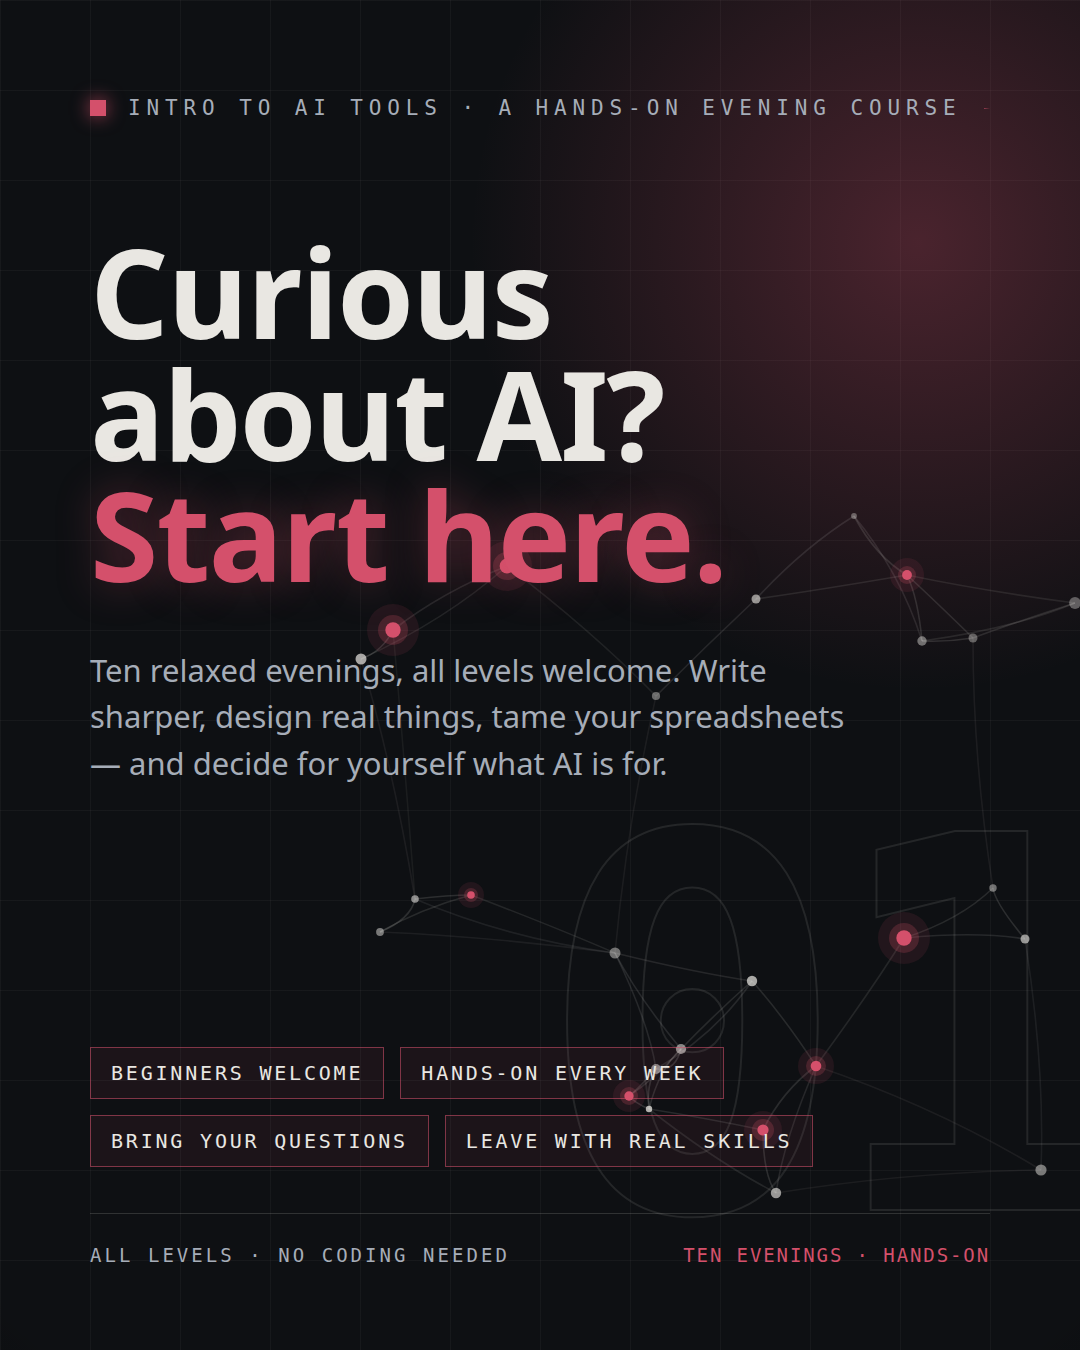
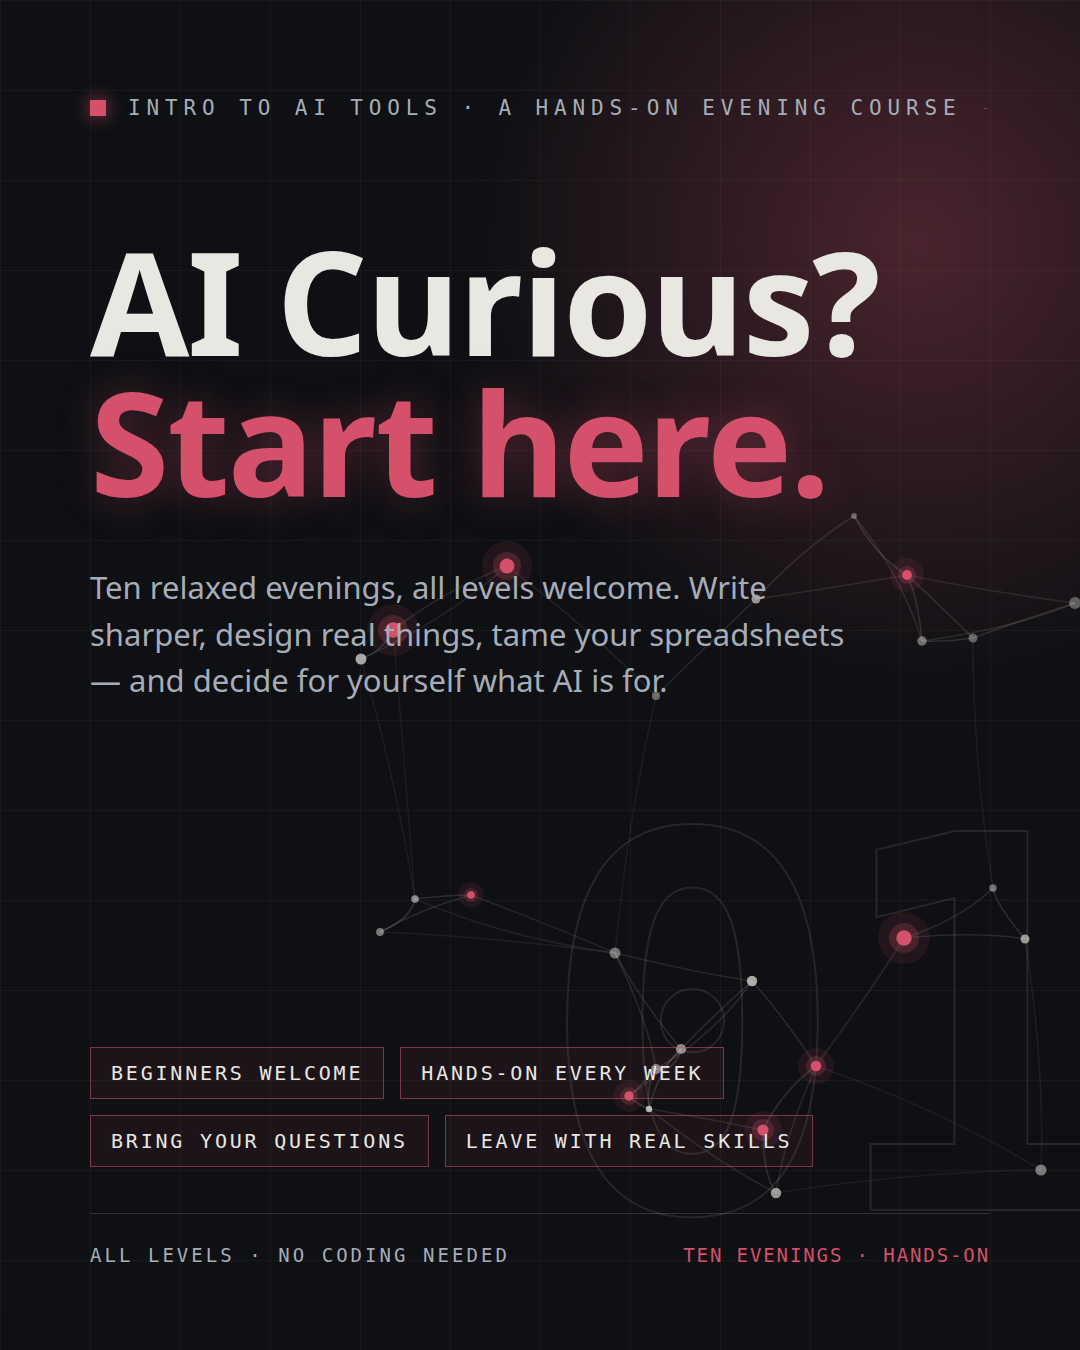
Tighten the hook: "AI Curious? Start here."
Shorter headline sits larger on both the flyer and title banner; README
table updated to match.

Changed region(s): [[0.0917, 0.1867, 0.825, 0.5911]]

diff --git a/intro-ai-tools/flyers/01-curious-start-here.html b/intro-ai-tools/flyers/01-curious-start-here.html
@@ -28,7 +28,7 @@
     font-size:21px; letter-spacing:.28em; color:#a6adb8; text-transform:uppercase; }
   .dot { width:16px; height:16px; background:#d4506b; box-shadow:0 0 18px rgba(212,80,107,.8); }
   .toprule { flex:1; height:1px; background:linear-gradient(90deg, rgba(212,80,107,.6), transparent); }
-  .headline { margin-top:110px; font-weight:900; font-size:124px; line-height:.98;
+  .headline { margin-top:110px; font-weight:900; font-size:144px; line-height:.98;
     letter-spacing:-0.015em; text-wrap:balance; }
   .headline .accent { color:#d4506b; text-shadow:0 0 42px rgba(212,80,107,.35); }
   .sub { margin-top:52px; font-size:31px; line-height:1.5; color:#a6adb8; max-width:760px; }
@@ -49,7 +49,7 @@
   <div class="net"><svg xmlns="http://www.w3.org/2000/svg" viewBox="0 0 780 780" width="780" height="780"><path d="M422,521 Q385,554 351,589" stroke="rgba(233,231,226,0.123)" stroke-width="1.6" fill="none"/><path d="M422,521 Q454,557 486,606" stroke="rgba(233,231,226,0.12)" stroke-width="1.6" fill="none"/><path d="M422,521 Q386,574 326,609" stroke="rgba(233,231,226,0.112)" stroke-width="1.6" fill="none"/><path d="M299,636 Q305,643 319,649" stroke="rgba(233,231,226,0.151)" stroke-width="1.6" fill="none"/><path d="M299,636 Q308,629 326,609" stroke="rgba(233,231,226,0.146)" stroke-width="1.6" fill="none"/><path d="M299,636 Q326,618 351,589" stroke="rgba(233,231,226,0.134)" stroke-width="1.6" fill="none"/><path d="M711,710 Q715,606 695,479" stroke="rgba(233,231,226,0.074)" stroke-width="1.6" fill="none"/><path d="M711,710 Q609,648 486,606" stroke="rgba(233,231,226,0.068)" stroke-width="1.6" fill="none"/><path d="M711,710 Q577,712 446,733" stroke="rgba(233,231,226,0.061)" stroke-width="1.6" fill="none"/><path d="M426,139 Q473,88 524,56" stroke="rgba(233,231,226,0.112)" stroke-width="1.6" fill="none"/><path d="M426,139 Q376,186 326,236" stroke="rgba(233,231,226,0.108)" stroke-width="1.6" fill="none"/><path d="M426,139 Q489,130 577,115" stroke="rgba(233,231,226,0.103)" stroke-width="1.6" fill="none"/><path d="M574,478 Q630,460 663,428" stroke="rgba(233,231,226,0.122)" stroke-width="1.6" fill="none"/><path d="M574,478 Q648,471 695,479" stroke="rgba(233,231,226,0.115)" stroke-width="1.6" fill="none"/><path d="M574,478 Q541,531 486,606" stroke="rgba(233,231,226,0.102)" stroke-width="1.6" fill="none"/><path d="M745,143 Q686,162 643,178" stroke="rgba(233,231,226,0.12)" stroke-width="1.6" fill="none"/><path d="M745,143 Q682,169 592,181" stroke="rgba(233,231,226,0.101)" stroke-width="1.6" fill="none"/><path d="M745,143 Q654,131 577,115" stroke="rgba(233,231,226,0.096)" stroke-width="1.6" fill="none"/><path d="M31,199 Q53,191 63,170" stroke="rgba(233,231,226,0.144)" stroke-width="1.6" fill="none"/><path d="M31,199 Q116,160 177,106" stroke="rgba(233,231,226,0.095)" stroke-width="1.6" fill="none"/><path d="M31,199 Q63,306 85,439" stroke="rgba(233,231,226,0.068)" stroke-width="1.6" fill="none"/><path d="M319,649 Q316,625 326,609" stroke="rgba(233,231,226,0.145)" stroke-width="1.6" fill="none"/><path d="M319,649 Q329,609 351,589" stroke="rgba(233,231,226,0.135)" stroke-width="1.6" fill="none"/><path d="M63,170 Q112,132 177,106" stroke="rgba(233,231,226,0.111)" stroke-width="1.6" fill="none"/><path d="M63,170 Q74,295 85,439" stroke="rgba(233,231,226,0.059)" stroke-width="1.6" fill="none"/><path d="M577,115 Q588,138 592,181" stroke="rgba(233,231,226,0.135)" stroke-width="1.6" fill="none"/><path d="M577,115 Q546,97 524,56" stroke="rgba(233,231,226,0.13)" stroke-width="1.6" fill="none"/><path d="M577,115 Q602,138 643,178" stroke="rgba(233,231,226,0.126)" stroke-width="1.6" fill="none"/><path d="M486,606 Q452,631 433,670" stroke="rgba(233,231,226,0.129)" stroke-width="1.6" fill="none"/><path d="M486,606 Q454,679 446,733" stroke="rgba(233,231,226,0.11)" stroke-width="1.6" fill="none"/><path d="M326,609 Q345,612 351,589" stroke="rgba(233,231,226,0.148)" stroke-width="1.6" fill="none"/><path d="M663,428 Q665,443 695,479" stroke="rgba(233,231,226,0.137)" stroke-width="1.6" fill="none"/><path d="M663,428 Q643,301 643,178" stroke="rgba(233,231,226,0.066)" stroke-width="1.6" fill="none"/><path d="M285,493 Q308,537 351,589" stroke="rgba(233,231,226,0.117)" stroke-width="1.6" fill="none"/><path d="M285,493 Q319,563 326,609" stroke="rgba(233,231,226,0.114)" stroke-width="1.6" fill="none"/><path d="M285,493 Q367,513 422,521" stroke="rgba(233,231,226,0.108)" stroke-width="1.6" fill="none"/><path d="M446,733 Q433,715 433,670" stroke="rgba(233,231,226,0.136)" stroke-width="1.6" fill="none"/><path d="M446,733 Q385,701 319,649" stroke="rgba(233,231,226,0.103)" stroke-width="1.6" fill="none"/><path d="M141,435 Q119,435 85,439" stroke="rgba(233,231,226,0.139)" stroke-width="1.6" fill="none"/><path d="M141,435 Q90,449 50,472" stroke="rgba(233,231,226,0.123)" stroke-width="1.6" fill="none"/><path d="M141,435 Q225,467 285,493" stroke="rgba(233,231,226,0.102)" stroke-width="1.6" fill="none"/><path d="M643,178 Q618,182 592,181" stroke="rgba(233,231,226,0.141)" stroke-width="1.6" fill="none"/><path d="M177,106 Q260,169 326,236" stroke="rgba(233,231,226,0.086)" stroke-width="1.6" fill="none"/><path d="M50,472 Q81,459 85,439" stroke="rgba(233,231,226,0.142)" stroke-width="1.6" fill="none"/><path d="M50,472 Q165,477 285,493" stroke="rgba(233,231,226,0.072)" stroke-width="1.6" fill="none"/><path d="M433,670 Q370,657 319,649" stroke="rgba(233,231,226,0.117)" stroke-width="1.6" fill="none"/><path d="M326,236 Q297,364 285,493" stroke="rgba(233,231,226,0.063)" stroke-width="1.6" fill="none"/><path d="M524,56 Q570,112 592,181" stroke="rgba(233,231,226,0.107)" stroke-width="1.6" fill="none"/><path d="M85,439 Q176,478 285,493" stroke="rgba(233,231,226,0.083)" stroke-width="1.6" fill="none"/><circle cx="422" cy="521" r="5.2" fill="#e9e7e2" opacity="0.71"/><circle cx="299" cy="636" r="16" fill="#d4506b" opacity="0.10"/><circle cx="299" cy="636" r="9" fill="#d4506b" opacity="0.22"/><circle cx="299" cy="636" r="4.7" fill="#d4506b"/><circle cx="711" cy="710" r="5.6" fill="#e9e7e2" opacity="0.49"/><circle cx="426" cy="139" r="4.5" fill="#e9e7e2" opacity="0.61"/><circle cx="574" cy="478" r="26" fill="#d4506b" opacity="0.10"/><circle cx="574" cy="478" r="15" fill="#d4506b" opacity="0.22"/><circle cx="574" cy="478" r="7.7" fill="#d4506b"/><circle cx="745" cy="143" r="5.9" fill="#e9e7e2" opacity="0.36"/><circle cx="31" cy="199" r="5.5" fill="#e9e7e2" opacity="0.70"/><circle cx="319" cy="649" r="3.2" fill="#e9e7e2" opacity="0.75"/><circle cx="63" cy="170" r="26" fill="#d4506b" opacity="0.10"/><circle cx="63" cy="170" r="15" fill="#d4506b" opacity="0.22"/><circle cx="63" cy="170" r="7.7" fill="#d4506b"/><circle cx="577" cy="115" r="17" fill="#d4506b" opacity="0.10"/><circle cx="577" cy="115" r="9" fill="#d4506b" opacity="0.22"/><circle cx="577" cy="115" r="4.9" fill="#d4506b"/><circle cx="486" cy="606" r="18" fill="#d4506b" opacity="0.10"/><circle cx="486" cy="606" r="10" fill="#d4506b" opacity="0.22"/><circle cx="486" cy="606" r="5.3" fill="#d4506b"/><circle cx="326" cy="609" r="5.0" fill="#e9e7e2" opacity="0.53"/><circle cx="663" cy="428" r="3.7" fill="#e9e7e2" opacity="0.45"/><circle cx="285" cy="493" r="5.5" fill="#e9e7e2" opacity="0.45"/><circle cx="446" cy="733" r="5.2" fill="#e9e7e2" opacity="0.63"/><circle cx="141" cy="435" r="13" fill="#d4506b" opacity="0.10"/><circle cx="141" cy="435" r="7" fill="#d4506b" opacity="0.22"/><circle cx="141" cy="435" r="3.8" fill="#d4506b"/><circle cx="643" cy="178" r="4.5" fill="#e9e7e2" opacity="0.37"/><circle cx="351" cy="589" r="5.1" fill="#e9e7e2" opacity="0.55"/><circle cx="177" cy="106" r="25" fill="#d4506b" opacity="0.10"/><circle cx="177" cy="106" r="14" fill="#d4506b" opacity="0.22"/><circle cx="177" cy="106" r="7.4" fill="#d4506b"/><circle cx="50" cy="472" r="3.9" fill="#e9e7e2" opacity="0.49"/><circle cx="695" cy="479" r="4.5" fill="#e9e7e2" opacity="0.62"/><circle cx="433" cy="670" r="19" fill="#d4506b" opacity="0.10"/><circle cx="433" cy="670" r="11" fill="#d4506b" opacity="0.22"/><circle cx="433" cy="670" r="5.6" fill="#d4506b"/><circle cx="326" cy="236" r="4.1" fill="#e9e7e2" opacity="0.41"/><circle cx="524" cy="56" r="2.9" fill="#e9e7e2" opacity="0.37"/><circle cx="85" cy="439" r="3.8" fill="#e9e7e2" opacity="0.57"/><circle cx="592" cy="181" r="4.7" fill="#e9e7e2" opacity="0.44"/></svg></div>
   <div class="content">
     <div class="toprow"><div class="dot"></div><span>Intro to AI Tools · A Hands-On Evening Course</span><div class="toprule"></div></div>
-    <div class="headline">Curious<br>about AI?<br><span class="accent">Start here.</span></div>
+    <div class="headline">AI Curious?<br><span class="accent">Start here.</span></div>
     <div class="sub">Ten relaxed evenings, all levels welcome. Write sharper, design real things, tame your spreadsheets — and decide for yourself what AI is for.</div>
     <div class="tags"><span class="tag">Beginners welcome</span><span class="tag">Hands-on every week</span><span class="tag">Bring your questions</span><span class="tag">Leave with real skills</span></div>
     <div class="footer"><span>All levels · No coding needed</span><span class="site">Ten evenings · Hands-on</span></div>

diff --git a/intro-ai-tools/flyers/title-curious-start-here.html b/intro-ai-tools/flyers/title-curious-start-here.html
@@ -23,7 +23,7 @@
     font-family:ui-monospace, "SF Mono", Consolas, monospace;
     font-size:20px; letter-spacing:.3em; color:#a6adb8; text-transform:uppercase; }
   .dot { width:14px; height:14px; background:#d4506b; box-shadow:0 0 16px rgba(212,80,107,.8); }
-  .headline { font-weight:900; font-size:140px; line-height:1.0;
+  .headline { font-weight:900; font-size:152px; line-height:1.0;
     letter-spacing:-0.015em; }
   .headline .accent { color:#d4506b; text-shadow:0 0 40px rgba(212,80,107,.35); }
 </style></head><body>
@@ -32,6 +32,6 @@
   <div class="net"><svg xmlns="http://www.w3.org/2000/svg" viewBox="0 0 880 700" width="880" height="700"><path d="M407,102 Q439,154 466,197" stroke="rgba(233,231,226,0.123)" stroke-width="1.6" fill="none"/><path d="M407,102 Q440,148 467,197" stroke="rgba(233,231,226,0.123)" stroke-width="1.6" fill="none"/><path d="M407,102 Q383,136 338,195" stroke="rgba(233,231,226,0.122)" stroke-width="1.6" fill="none"/><path d="M563,272 Q562,279 569,312" stroke="rgba(233,231,226,0.147)" stroke-width="1.6" fill="none"/><path d="M563,272 Q599,268 635,242" stroke="rgba(233,231,226,0.134)" stroke-width="1.6" fill="none"/><path d="M563,272 Q534,245 483,223" stroke="rgba(233,231,226,0.129)" stroke-width="1.6" fill="none"/><path d="M264,142 Q287,152 290,172" stroke="rgba(233,231,226,0.147)" stroke-width="1.6" fill="none"/><path d="M264,142 Q222,119 190,97" stroke="rgba(233,231,226,0.131)" stroke-width="1.6" fill="none"/><path d="M264,142 Q311,158 338,195" stroke="rgba(233,231,226,0.13)" stroke-width="1.6" fill="none"/><path d="M569,312 Q608,273 635,242" stroke="rgba(233,231,226,0.128)" stroke-width="1.6" fill="none"/><path d="M569,312 Q608,332 663,337" stroke="rgba(233,231,226,0.128)" stroke-width="1.6" fill="none"/><path d="M545,86 Q583,87 608,77" stroke="rgba(233,231,226,0.139)" stroke-width="1.6" fill="none"/><path d="M545,86 Q502,155 466,197" stroke="rgba(233,231,226,0.115)" stroke-width="1.6" fill="none"/><path d="M545,86 Q495,150 467,197" stroke="rgba(233,231,226,0.115)" stroke-width="1.6" fill="none"/><path d="M290,172 Q316,178 338,195" stroke="rgba(233,231,226,0.143)" stroke-width="1.6" fill="none"/><path d="M290,172 Q306,209 334,228" stroke="rgba(233,231,226,0.137)" stroke-width="1.6" fill="none"/><path d="M466,197 Q472,185 467,197" stroke="rgba(233,231,226,0.16)" stroke-width="1.6" fill="none"/><path d="M466,197 Q471,199 483,223" stroke="rgba(233,231,226,0.15)" stroke-width="1.6" fill="none"/><path d="M226,368 Q287,308 334,228" stroke="rgba(233,231,226,0.102)" stroke-width="1.6" fill="none"/><path d="M226,368 Q293,290 338,195" stroke="rgba(233,231,226,0.092)" stroke-width="1.6" fill="none"/><path d="M226,368 Q257,258 290,172" stroke="rgba(233,231,226,0.092)" stroke-width="1.6" fill="none"/><path d="M635,242 Q656,267 678,278" stroke="rgba(233,231,226,0.141)" stroke-width="1.6" fill="none"/><path d="M338,195 Q325,210 334,228" stroke="rgba(233,231,226,0.149)" stroke-width="1.6" fill="none"/><path d="M467,197 Q473,204 483,223" stroke="rgba(233,231,226,0.15)" stroke-width="1.6" fill="none"/><path d="M267,574 Q323,539 402,480" stroke="rgba(233,231,226,0.106)" stroke-width="1.6" fill="none"/><path d="M267,574 Q236,462 226,368" stroke="rgba(233,231,226,0.091)" stroke-width="1.6" fill="none"/><path d="M267,574 Q355,453 437,333" stroke="rgba(233,231,226,0.062)" stroke-width="1.6" fill="none"/><path d="M678,278 Q659,300 663,337" stroke="rgba(233,231,226,0.14)" stroke-width="1.6" fill="none"/><path d="M678,278 Q620,290 569,312" stroke="rgba(233,231,226,0.122)" stroke-width="1.6" fill="none"/><path d="M190,97 Q172,99 174,85" stroke="rgba(233,231,226,0.153)" stroke-width="1.6" fill="none"/><path d="M190,97 Q253,129 290,172" stroke="rgba(233,231,226,0.119)" stroke-width="1.6" fill="none"/><path d="M731,605 Q748,556 758,518" stroke="rgba(233,231,226,0.13)" stroke-width="1.6" fill="none"/><path d="M731,605 Q780,480 831,354" stroke="rgba(233,231,226,0.071)" stroke-width="1.6" fill="none"/><path d="M731,605 Q697,458 663,337" stroke="rgba(233,231,226,0.069)" stroke-width="1.6" fill="none"/><path d="M437,333 Q471,274 483,223" stroke="rgba(233,231,226,0.121)" stroke-width="1.6" fill="none"/><path d="M437,333 Q515,335 569,312" stroke="rgba(233,231,226,0.116)" stroke-width="1.6" fill="none"/><path d="M437,333 Q464,267 467,197" stroke="rgba(233,231,226,0.114)" stroke-width="1.6" fill="none"/><path d="M663,337 Q642,293 635,242" stroke="rgba(233,231,226,0.127)" stroke-width="1.6" fill="none"/><path d="M831,354 Q759,337 663,337" stroke="rgba(233,231,226,0.104)" stroke-width="1.6" fill="none"/><path d="M831,354 Q755,304 678,278" stroke="rgba(233,231,226,0.104)" stroke-width="1.6" fill="none"/><path d="M831,354 Q790,429 758,518" stroke="rgba(233,231,226,0.1)" stroke-width="1.6" fill="none"/><path d="M334,228 Q312,189 264,142" stroke="rgba(233,231,226,0.124)" stroke-width="1.6" fill="none"/><path d="M608,77 Q619,153 635,242" stroke="rgba(233,231,226,0.105)" stroke-width="1.6" fill="none"/><path d="M608,77 Q543,135 467,197" stroke="rgba(233,231,226,0.099)" stroke-width="1.6" fill="none"/><path d="M174,85 Q226,103 264,142" stroke="rgba(233,231,226,0.125)" stroke-width="1.6" fill="none"/><path d="M174,85 Q226,122 290,172" stroke="rgba(233,231,226,0.112)" stroke-width="1.6" fill="none"/><path d="M758,518 Q704,419 663,337" stroke="rgba(233,231,226,0.092)" stroke-width="1.6" fill="none"/><path d="M402,480 Q425,403 437,333" stroke="rgba(233,231,226,0.11)" stroke-width="1.6" fill="none"/><path d="M402,480 Q302,434 226,368" stroke="rgba(233,231,226,0.091)" stroke-width="1.6" fill="none"/><circle cx="407" cy="102" r="5.8" fill="#e9e7e2" opacity="0.60"/><circle cx="563" cy="272" r="6.2" fill="#e9e7e2" opacity="0.41"/><circle cx="264" cy="142" r="20" fill="#d4506b" opacity="0.10"/><circle cx="264" cy="142" r="11" fill="#d4506b" opacity="0.22"/><circle cx="264" cy="142" r="5.8" fill="#d4506b"/><circle cx="569" cy="312" r="3.2" fill="#e9e7e2" opacity="0.74"/><circle cx="545" cy="86" r="13" fill="#d4506b" opacity="0.10"/><circle cx="545" cy="86" r="7" fill="#d4506b" opacity="0.22"/><circle cx="545" cy="86" r="3.8" fill="#d4506b"/><circle cx="290" cy="172" r="3.1" fill="#e9e7e2" opacity="0.57"/><circle cx="466" cy="197" r="22" fill="#d4506b" opacity="0.10"/><circle cx="466" cy="197" r="12" fill="#d4506b" opacity="0.22"/><circle cx="466" cy="197" r="6.5" fill="#d4506b"/><circle cx="226" cy="368" r="24" fill="#d4506b" opacity="0.10"/><circle cx="226" cy="368" r="13" fill="#d4506b" opacity="0.22"/><circle cx="226" cy="368" r="6.9" fill="#d4506b"/><circle cx="635" cy="242" r="15" fill="#d4506b" opacity="0.10"/><circle cx="635" cy="242" r="8" fill="#d4506b" opacity="0.22"/><circle cx="635" cy="242" r="4.4" fill="#d4506b"/><circle cx="338" cy="195" r="5.9" fill="#e9e7e2" opacity="0.60"/><circle cx="467" cy="197" r="23" fill="#d4506b" opacity="0.10"/><circle cx="467" cy="197" r="13" fill="#d4506b" opacity="0.22"/><circle cx="467" cy="197" r="6.8" fill="#d4506b"/><circle cx="267" cy="574" r="13" fill="#d4506b" opacity="0.10"/><circle cx="267" cy="574" r="7" fill="#d4506b" opacity="0.22"/><circle cx="267" cy="574" r="3.9" fill="#d4506b"/><circle cx="678" cy="278" r="2.9" fill="#e9e7e2" opacity="0.58"/><circle cx="190" cy="97" r="15" fill="#d4506b" opacity="0.10"/><circle cx="190" cy="97" r="9" fill="#d4506b" opacity="0.22"/><circle cx="190" cy="97" r="4.5" fill="#d4506b"/><circle cx="731" cy="605" r="23" fill="#d4506b" opacity="0.10"/><circle cx="731" cy="605" r="13" fill="#d4506b" opacity="0.22"/><circle cx="731" cy="605" r="6.8" fill="#d4506b"/><circle cx="437" cy="333" r="3.3" fill="#e9e7e2" opacity="0.59"/><circle cx="483" cy="223" r="4.8" fill="#e9e7e2" opacity="0.43"/><circle cx="663" cy="337" r="6.1" fill="#e9e7e2" opacity="0.62"/><circle cx="831" cy="354" r="3.1" fill="#e9e7e2" opacity="0.56"/><circle cx="334" cy="228" r="27" fill="#d4506b" opacity="0.10"/><circle cx="334" cy="228" r="15" fill="#d4506b" opacity="0.22"/><circle cx="334" cy="228" r="8.0" fill="#d4506b"/><circle cx="608" cy="77" r="4.7" fill="#e9e7e2" opacity="0.71"/><circle cx="174" cy="85" r="4.6" fill="#e9e7e2" opacity="0.35"/><circle cx="758" cy="518" r="4.2" fill="#e9e7e2" opacity="0.42"/><circle cx="402" cy="480" r="5.5" fill="#e9e7e2" opacity="0.72"/></svg></div>
   <div class="content">
     <div class="kicker"><div class="dot"></div><span>Intro to AI Tools</span></div>
-    <div class="headline">Curious about AI? <span class="accent">Start here.</span></div>
+    <div class="headline">AI Curious? <span class="accent">Start here.</span></div>
   </div>
 </body></html>

diff --git a/intro-ai-tools/flyers/README.md b/intro-ai-tools/flyers/README.md
@@ -20,7 +20,7 @@ describe → code → render → judge → iterate.
 | Hook | Full flyer | Title banner |
 |---|---|---|
 | AI is not just for cheating — learn what it's actually for | `00-not-just-for-cheating` | `title-not-just-for-cheating` |
-| Curious about AI? Start here — all levels welcome | `01-curious-start-here` | `title-curious-start-here` |
+| AI Curious? Start here — all levels welcome | `01-curious-start-here` | `title-curious-start-here` |
 | Own the AI, don't rent it — local models, your hardware | `02-own-the-ai` | `title-own-the-ai` |
 | Spot the fake — build the verification habit | `03-spot-the-fake` | `title-spot-the-fake` |
 | Ship something real — leave with a live website you own | `04-ship-something-real` | `title-ship-something-real` |
